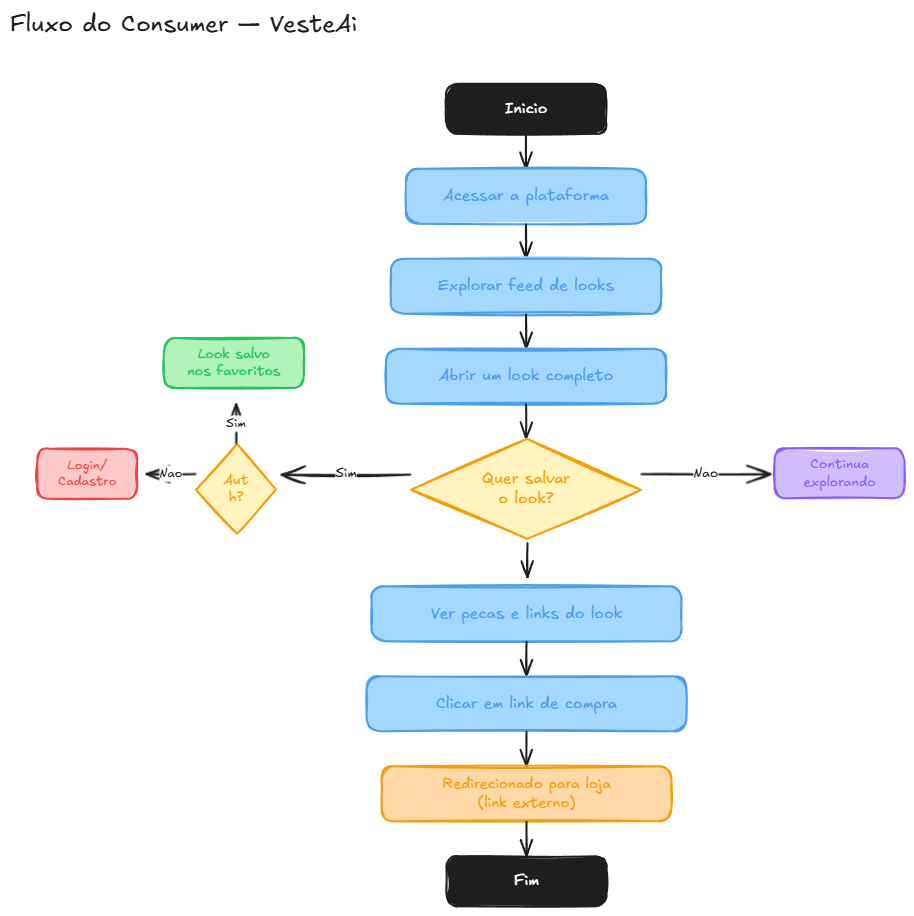
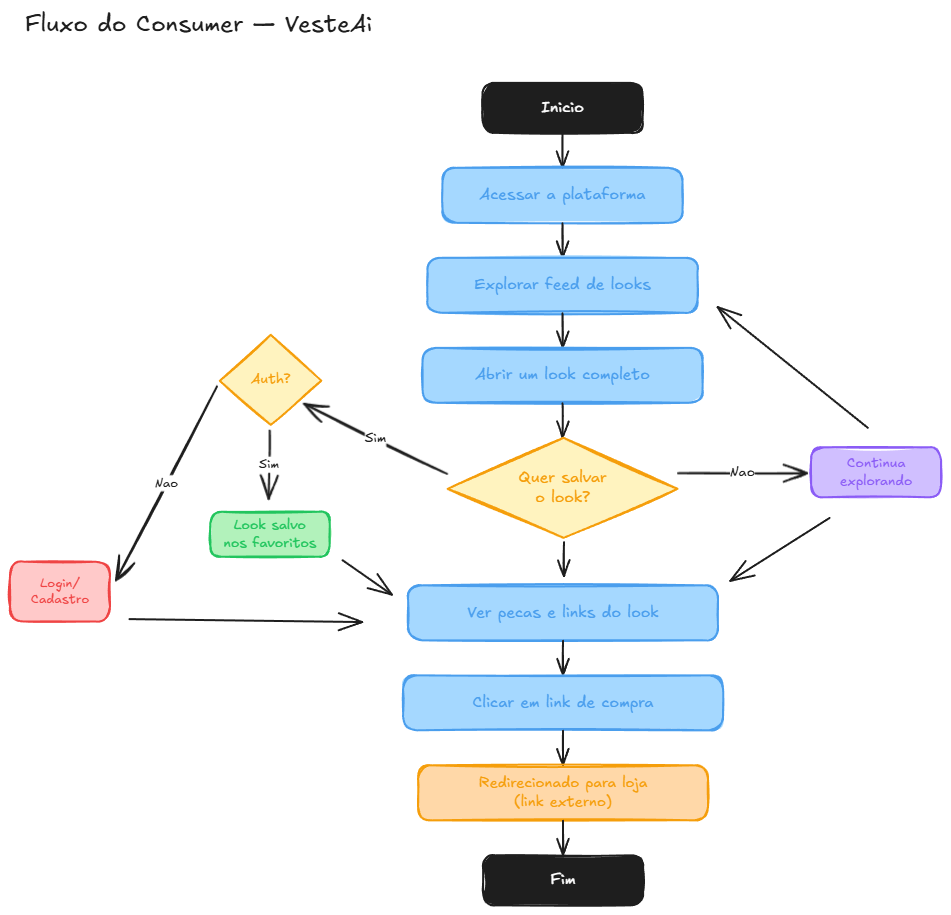
refact: fix user workflows, and change evidence image

diff --git a/docs/RFC.md b/docs/RFC.md
@@ -124,7 +124,7 @@ um post no Instagram onde seguidores pedem o preço e o link das peças
 diretamente nos comentários, sem receber nenhuma resposta centralizada —
 evidência direta da dor que o VesteAí se propõe a resolver:
 
-![Instagram sem link](https://raw.githubusercontent.com/kalebefukuda/veste-ai/docs/rfc/docs/assets/instagram-no-link.png)
+![Instagram sem link](https://raw.githubusercontent.com/kalebefukuda/veste-ai/docs/rfc/docs/assets/instagram-no-link-2.png)
 
 ### Contexto de Mercado
 